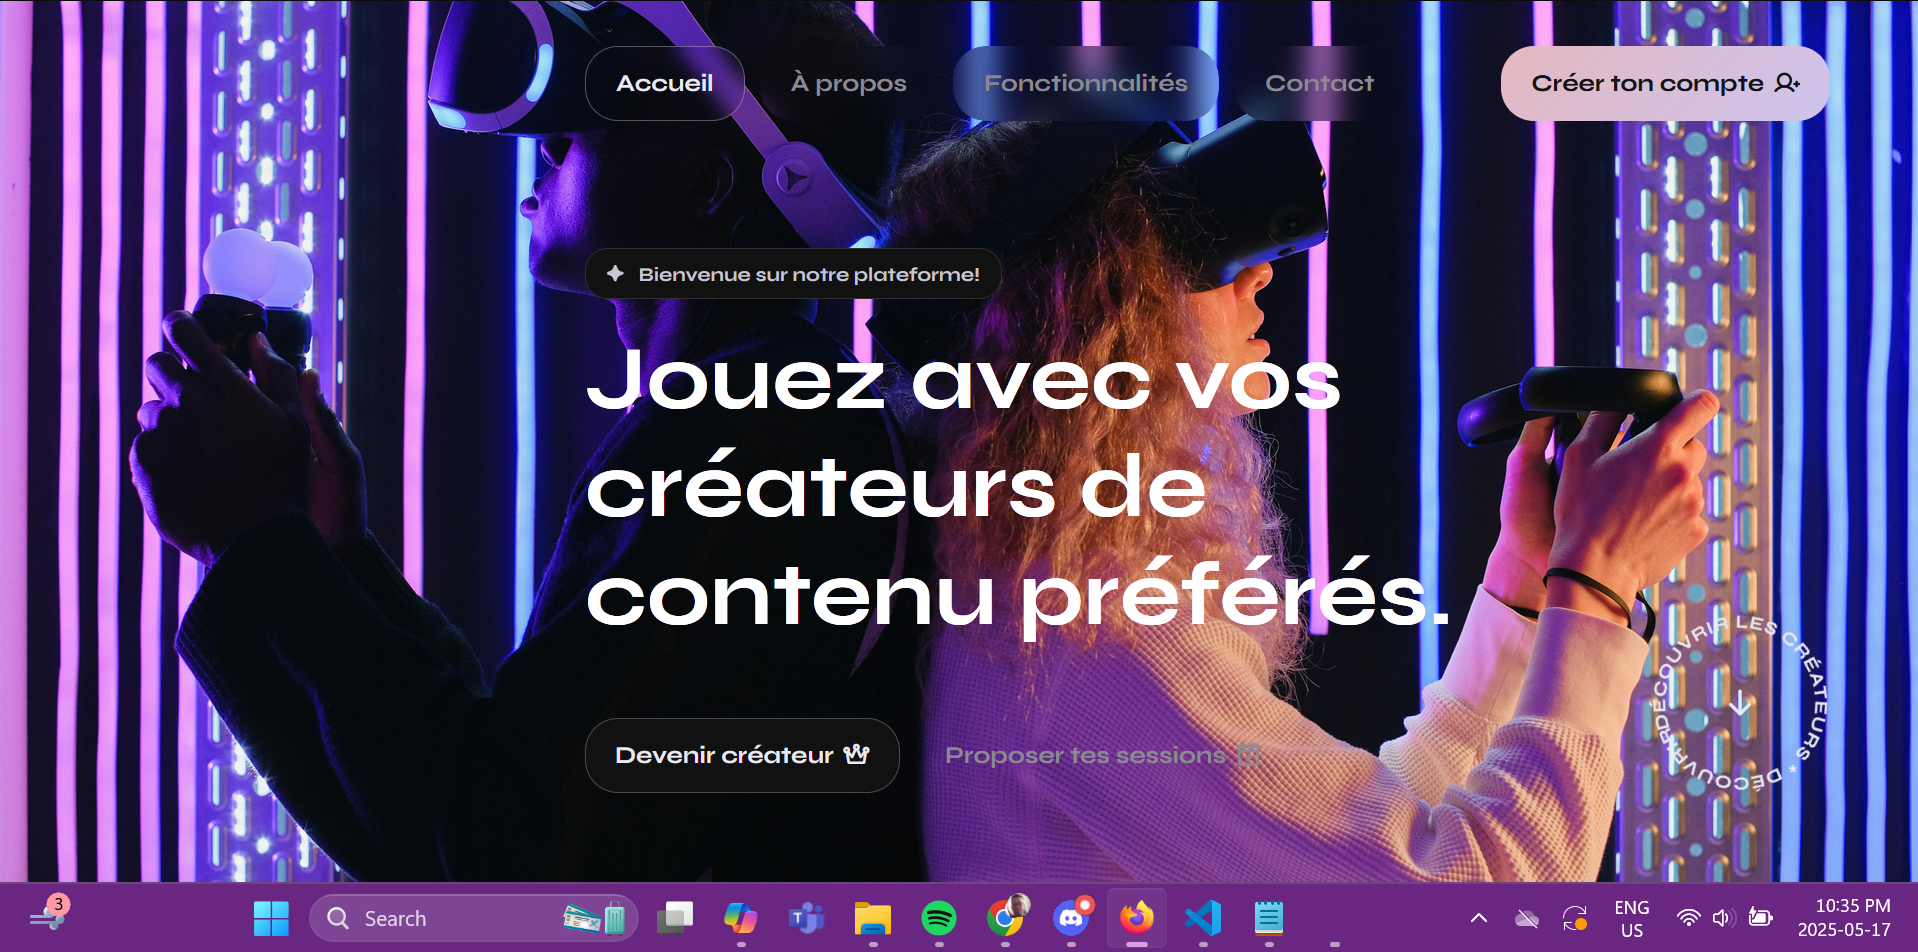
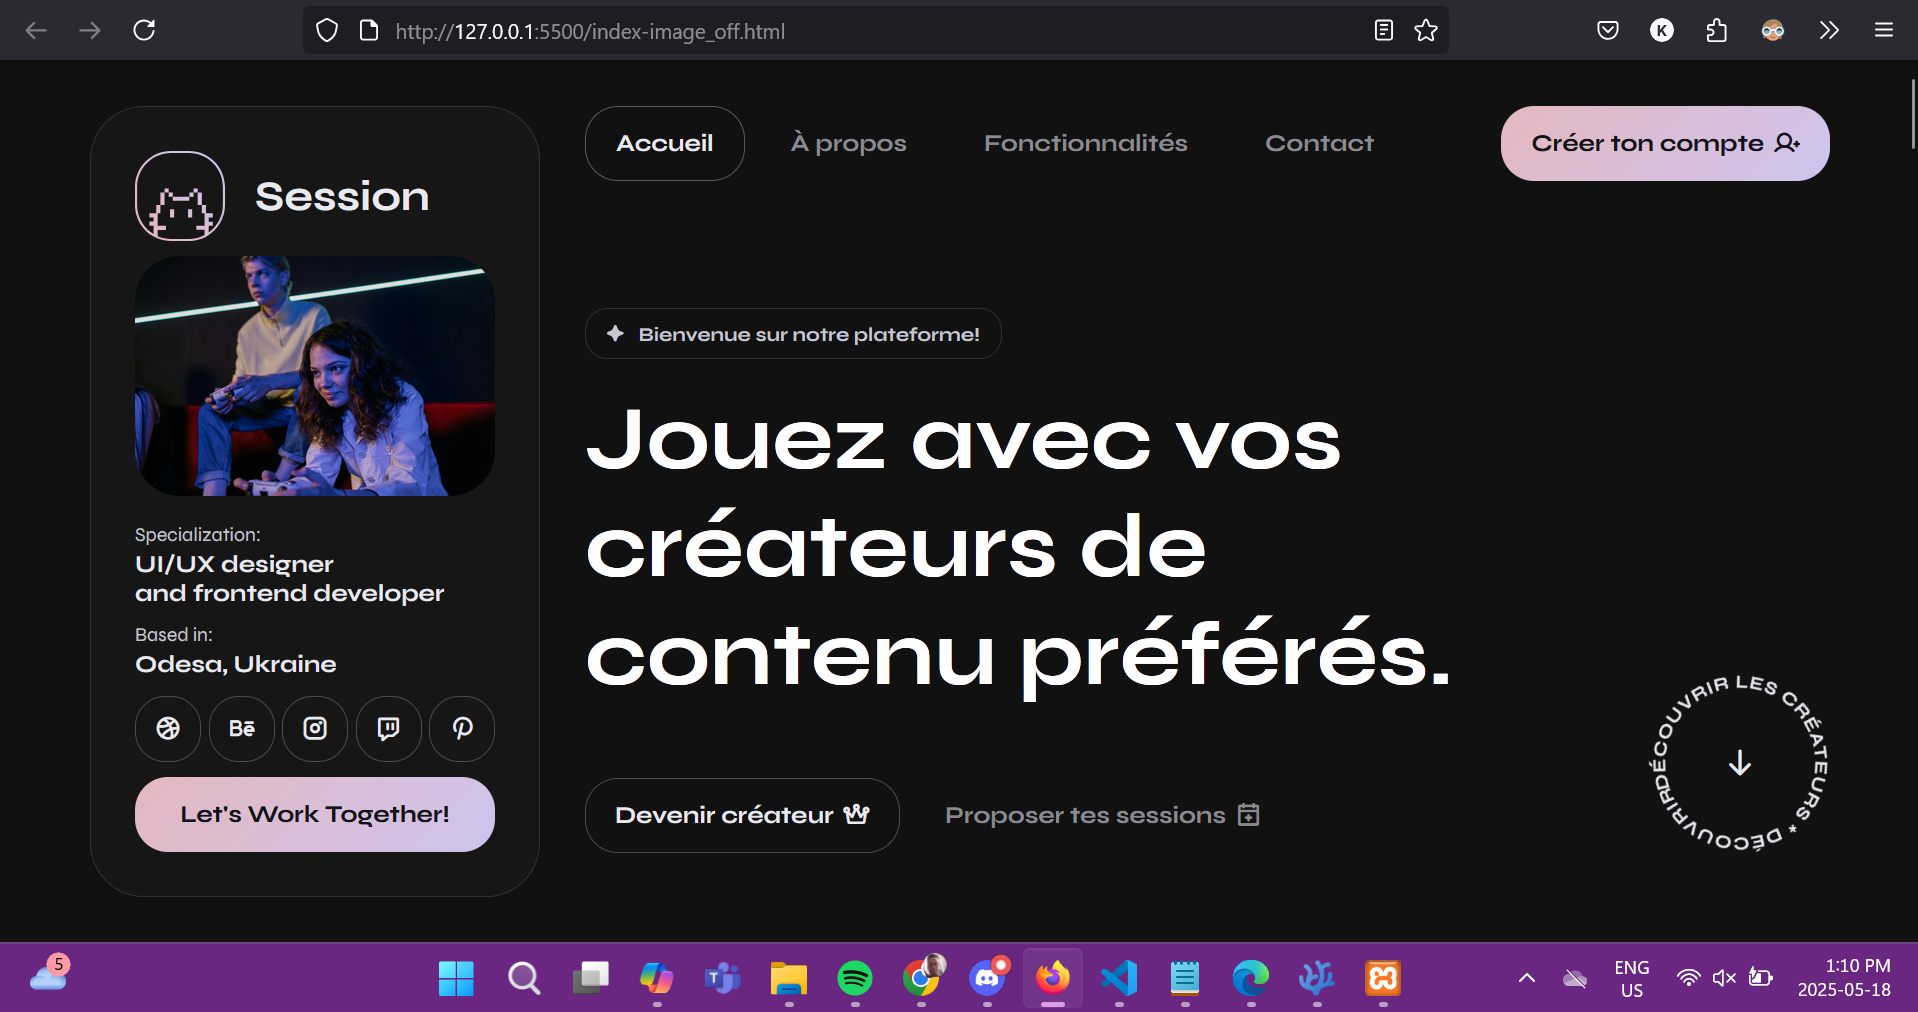
modif css

diff --git a/index-image_off.html b/index-image_off.html
@@ -46,9 +46,9 @@
     <meta name="apple-mobile-web-app-status-bar-style" content="black-translucent">
     <!-- Custom Browser Color End -->
       <style>
-      .image-background {
+      /* .image-background {
       background-image: url("./img/pexels-shvets-production-7562271.jpg");
-    }
+    } */
     </style>
   </head>
 
@@ -123,7 +123,58 @@
     <!-- Image Background Layer End -->
 
     <!-- Avatar Side Block Start -->
-
+    <div id="avatar" class="avatar">
+      <div class="avatar__container d-flex flex-column justify-content-lg-between">
+        <!-- image and logo -->
+        <div class="avatar__block">
+         
+          <div class="avatar__image">
+            <img src="./img/pexels-a-darmel-7862411.jpg" alt="Braxton - Personal Portfolio & Resume HTML Template Avatar">
+          </div>
+        </div>
+        <!-- data caption #1 -->
+        <div class="avatar__block">
+          <h6>
+            <small class="top">Specialization:</small>
+            UI/UX designer<br>and frontend developer
+          </h6>
+        </div>
+        <!-- data caption #2 -->
+        <div class="avatar__block">
+          <h6>
+            <small class="top">Based in:</small>
+            Odesa, Ukraine
+          </h6>
+        </div>
+        <!-- socials and CTA button -->
+        <div class="avatar__block">
+          <div class="avatar__socials">
+            <ul class="socials-square d-flex justify-content-between">
+              <li class="socials-square__item">
+                <a class="socials-square__link btn" href="https://dribbble.com/" target="_blank"><i class="ph-bold ph-dribbble-logo"></i></a>
+              </li>
+              <li class="socials-square__item">
+                <a class="socials-square__link btn" href="https://www.behance.net/" target="_blank"><i class="ph-bold ph-behance-logo"></i></a>
+              </li>
+              <li class="socials-square__item">
+                <a class="socials-square__link btn" href="https://www.instagram.com/" target="_blank"><i class="ph-bold ph-instagram-logo"></i></a>
+              </li>
+              <li class="socials-square__item">
+                <a class="socials-square__link btn" href="https://www.twitch.tv/" target="_blank"><i class="ph-bold ph-twitch-logo"></i></a>
+              </li>
+              <li class="socials-square__item">
+                <a class="socials-square__link btn" href="https://www.pinterest.com/" target="_blank"><i class="ph-bold ph-pinterest-logo"></i></a>
+              </li>
+            </ul>
+          </div>
+          <div class="avatar__btnholder">
+            <a class="btn btn-default btn-fullwidth btn-hover btn-hover-accent" href="#contact" target="_blank">
+              <span class="btn-caption">Let's Work Together!</span>
+            </a>
+          </div>
+        </div>
+      </div>
+    </div>
     <!-- Avatar Side Block End -->
 
     <!-- Page Content Start -->

diff --git a/css/main.css b/css/main.css
@@ -52,9 +52,9 @@
 /* ------------------------------------------------*/
 /* Template Backgrounds Start */
 /* ------------------------------------------------*/
-.image-background {
+/* .image-background {
   background-image: url("https://dummyimage.com/2560x1440/4d4d4d/636363");
-}
+} */
 
 /* ------------------------------------------------*/
 /* Template Backgrounds End */
